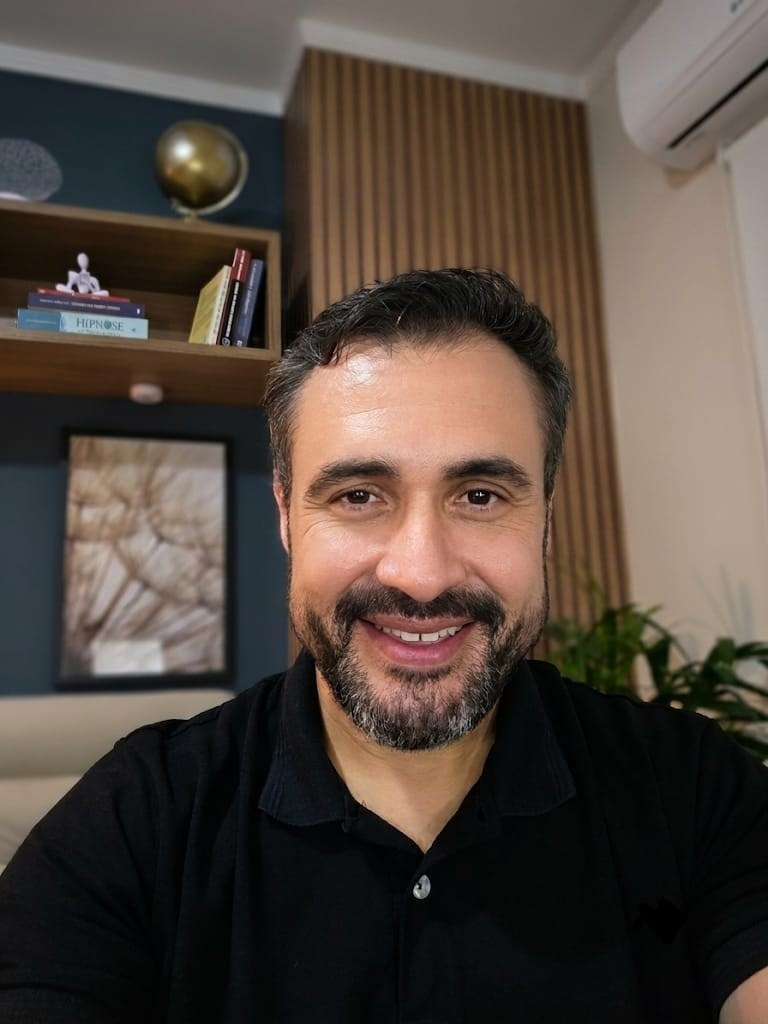
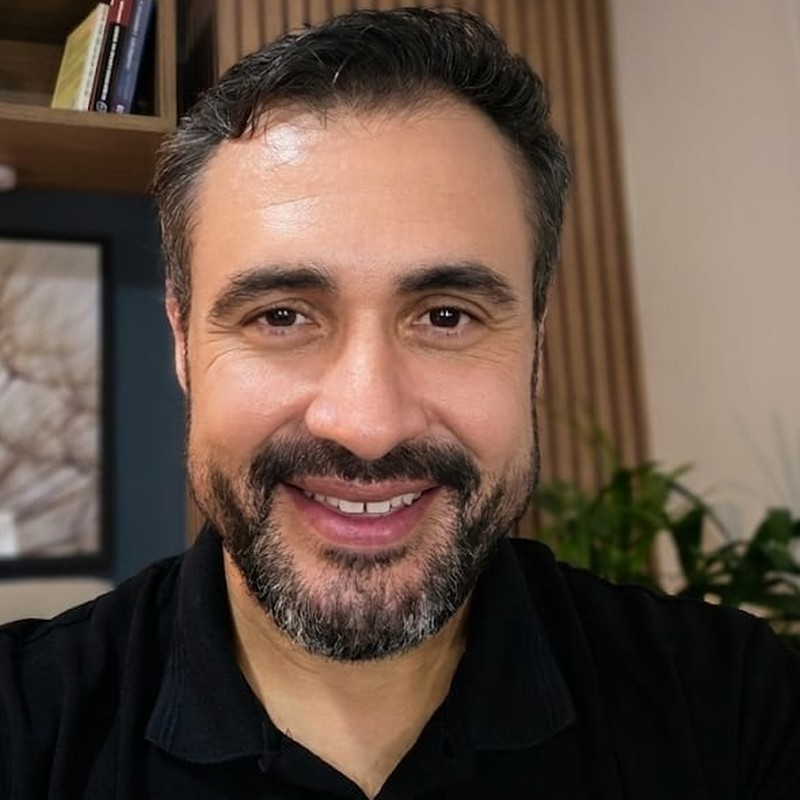
Add files via upload

diff --git a/index.html b/index.html
@@ -903,7 +903,7 @@
       </article>
 
       <article class="person">
-        <img class="person-photo" src="adriano.jpg" alt="Retrato de Adriano Maquiaveli" style="object-position: center 42%;" loading="lazy">
+        <img class="person-photo" src="adriano.jpg" alt="Retrato de Adriano Maquiaveli" loading="lazy">
         <p class="person-role">psicanalista · supervisor clínico</p>
         <h3 class="sub">adriano maquiaveli<span class="dot">.</span></h3>
         <p>Psicanalista clínico com mais de 12 anos de experiência, professor em curso de formação em psicanálise e supervisor de terapeutas em atuação. Especialista em técnicas de acesso direto ao inconsciente, trabalha com um processo estruturado e acolhedor: existe pessoa antes de existir caso, e cada uma chega com dores singulares.</p>
